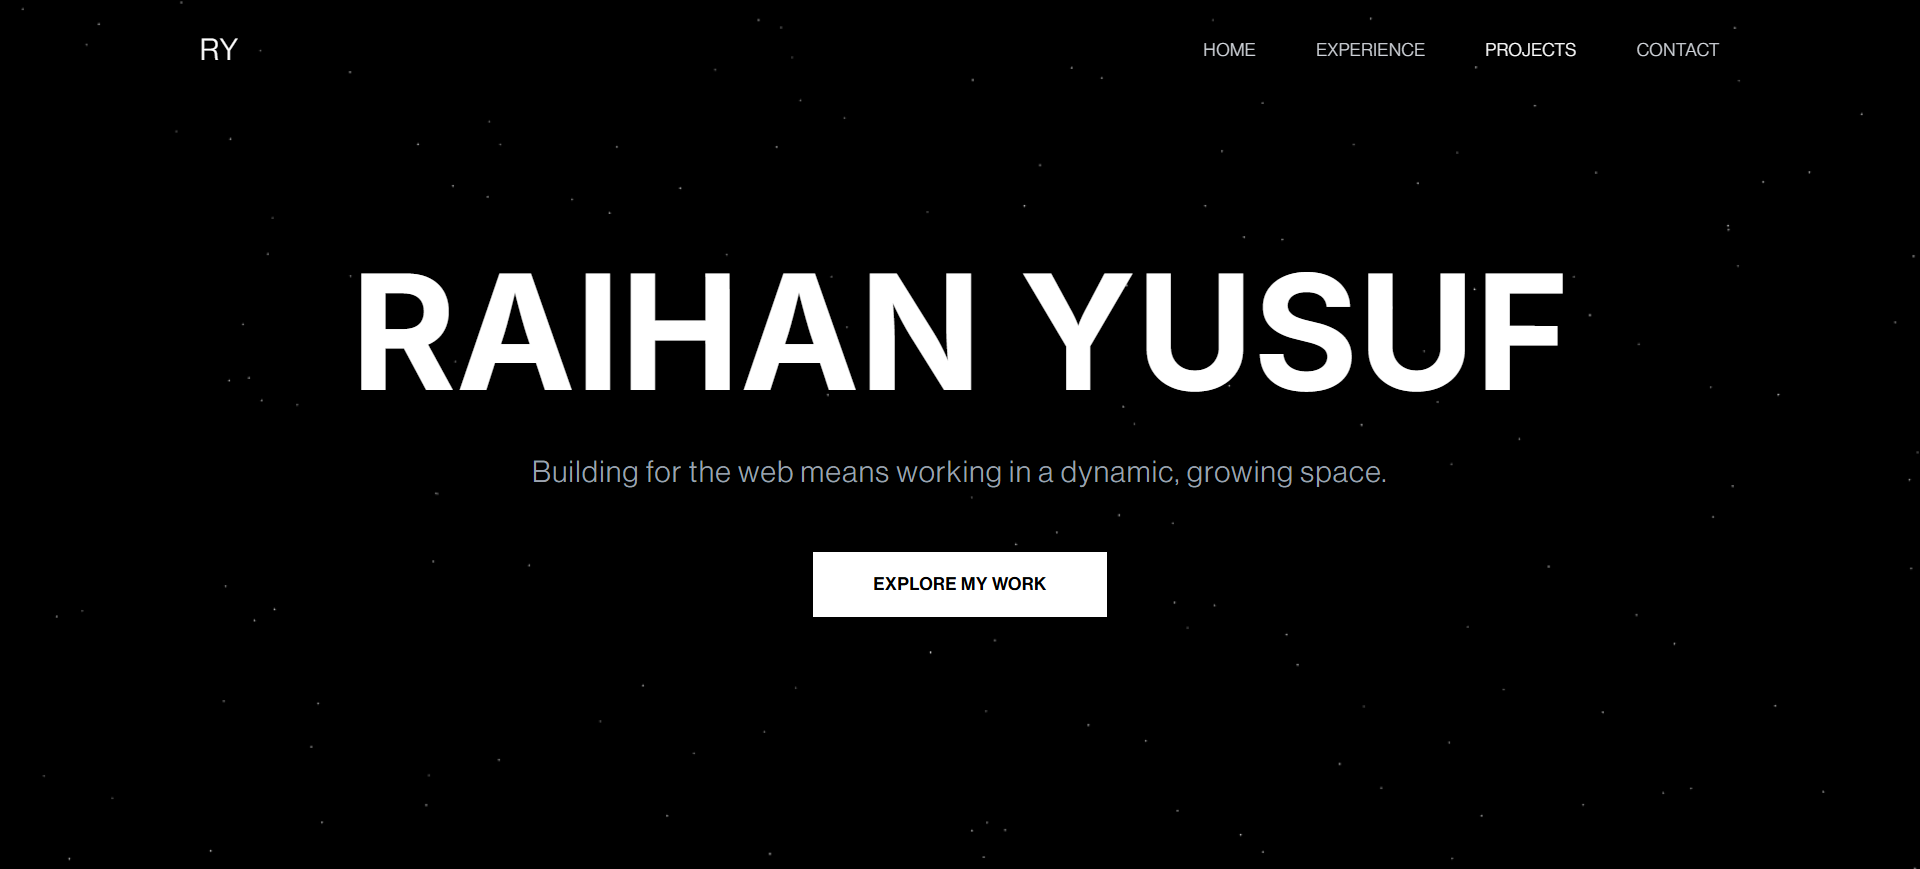
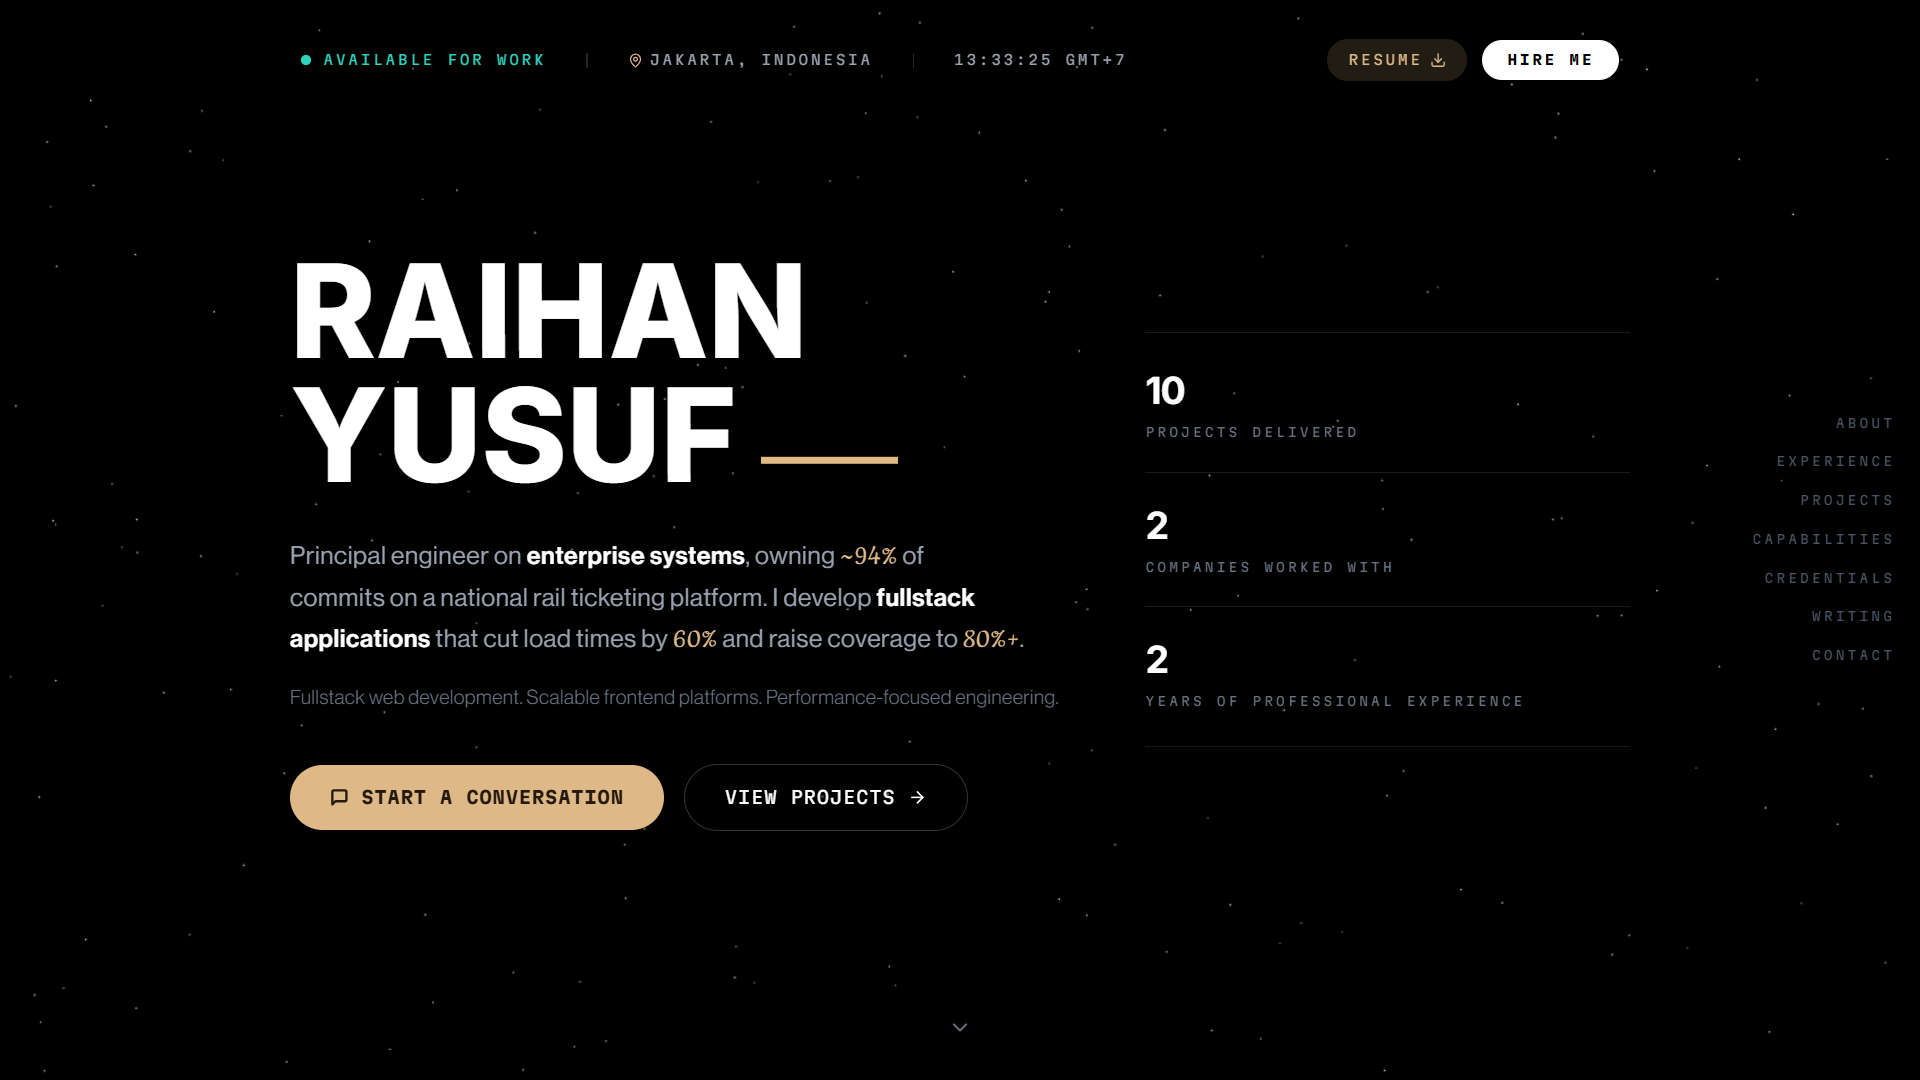
#141: refactor metadata and images for project archives; update Open Graph settings and remove example env file

diff --git a/src/app/(web)/projects/page.tsx b/src/app/(web)/projects/page.tsx
@@ -1,13 +1,41 @@
+import type { Metadata } from "next";
 import BaseLayout from "@/components/layout";
 import ListProjectSection from "./section/list";
 import { getProjectsData } from "@/server/actions";
 import { getContactUrl } from "@/helpers";
+import { META_APP } from "@/config/variables";
 
 /**
  * ISR (see the home page for details) — 60-second background
  * revalidation keeps the archive in sync with the database.
  */
 export const revalidate = 60;
+
+/** Page metadata — mirrors the root layout's shape, but points the
+ *  Open Graph image at the dedicated archive artwork under
+ *  public/images/projects instead of the site-wide one. */
+export const metadata: Metadata = {
+  title: "Project Archives by Raihan Yusuf",
+  description:
+    "The complete project archive of Raihan Yusuf — every build, role, and the technology behind it, year by year.",
+  openGraph: {
+    title: "Project Archives by Raihan Yusuf",
+    description:
+      "The complete project archive of Raihan Yusuf — every build, role, and the technology behind it, year by year.",
+    type: "profile",
+    siteName: META_APP,
+    countryName: "Indonesia",
+    locale: "en-US",
+    url: `/projects`,
+    images: [
+      {
+        url: `images/projects/opengraph-image.png`,
+        alt: "Project Archives by Raihan Yusuf",
+        type: "image/png",
+      },
+    ],
+  },
+};
 
 const ProjectsPage = async () => {
   // Fetch projects from database

diff --git a/src/app/layout.tsx b/src/app/layout.tsx
@@ -38,7 +38,7 @@ export const metadata: Metadata = {
     images: [
       {
         url: `images/opengraph-image.png`,
-        alt: META_APP,
+        alt: META_TITLE,
         type: "image/png",
       },
     ],
